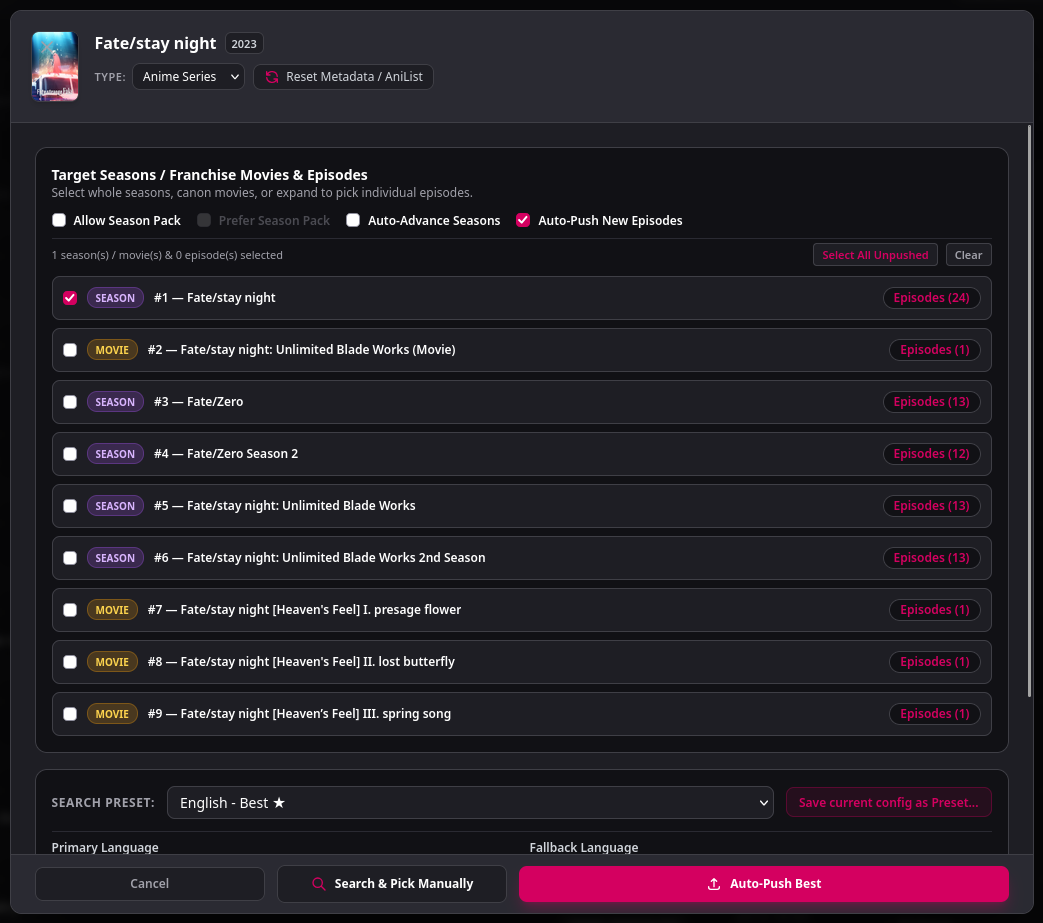
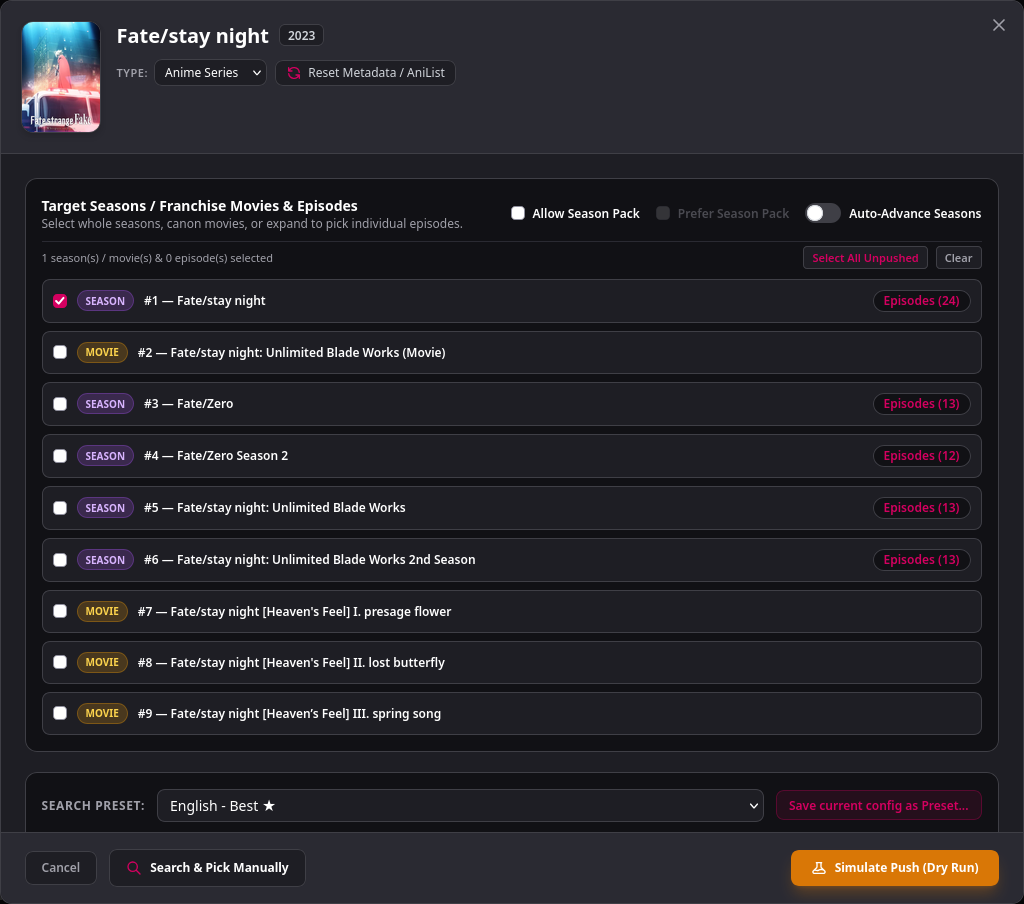
docs: refresh README screenshots and captions

Changed region(s): [[0.0, 0.0, 1.0, 1.0]]

diff --git a/README.md b/README.md
@@ -15,7 +15,8 @@
 </p>
 
 <p align="center">
-  <img src="screenshots/dashboard.png" alt="NZBoxer dashboard" width="900" />
+  <img src="screenshots/dashboard.png" alt="NZBoxer dashboard with watchlist categories, per-title Auto-Push switches and season progress" width="900" /><br />
+  <sub><b>Dashboard:</b> watchlist categories, season and movie progress, and a per-title Auto-Push switch</sub>
 </p>
 
 ---
@@ -49,21 +50,21 @@ It keeps your **Movies**, **TV Series** and **Anime** in sync with your watchlis
     <td width="50%"><img src="screenshots/anime-franchise.png" alt="Anime franchise push modal" /><br /><sub><b>Anime franchises:</b> pick seasons, movies or single episodes</sub></td>
   </tr>
   <tr>
-    <td><img src="screenshots/active-pushes.png" alt="Live transfer monitor" /><br /><sub><b>Live transfer monitor</b> (shown in dry-run mode)</sub></td>
+    <td><img src="screenshots/active-pushes.png" alt="Live transfer monitor" /><br /><sub><b>Live transfer monitor</b> with the dry-run banner (no NZBs are sent)</sub></td>
     <td><img src="screenshots/providers.png" alt="Connected providers" /><br /><sub><b>Connected providers:</b> watchlists, metadata, downloaders, indexers</sub></td>
   </tr>
 </table>
 
 <p align="center">
   <img src="screenshots/ad-hoc-search.png" alt="Ad-hoc search" width="800" /><br />
-  <sub><b>Ad-hoc search:</b> find releases for any title without adding it to a watchlist</sub>
+  <sub><b>Ad-hoc search:</b> filters, scored releases and one-click Auto-Push Best for any title outside your watchlist</sub>
 </p>
 
 <p align="center">
   <img src="screenshots/mobile-dashboard.png" alt="Mobile dashboard" width="300" />
   &nbsp;&nbsp;
   <img src="screenshots/mobile-push-modal.png" alt="Mobile push modal" width="300" /><br />
-  <sub><b>Mobile-friendly:</b> the full UI works on your phone</sub>
+  <sub><b>Mobile-friendly:</b> watchlist search and the push modal work on your phone</sub>
 </p>
 
 ---
